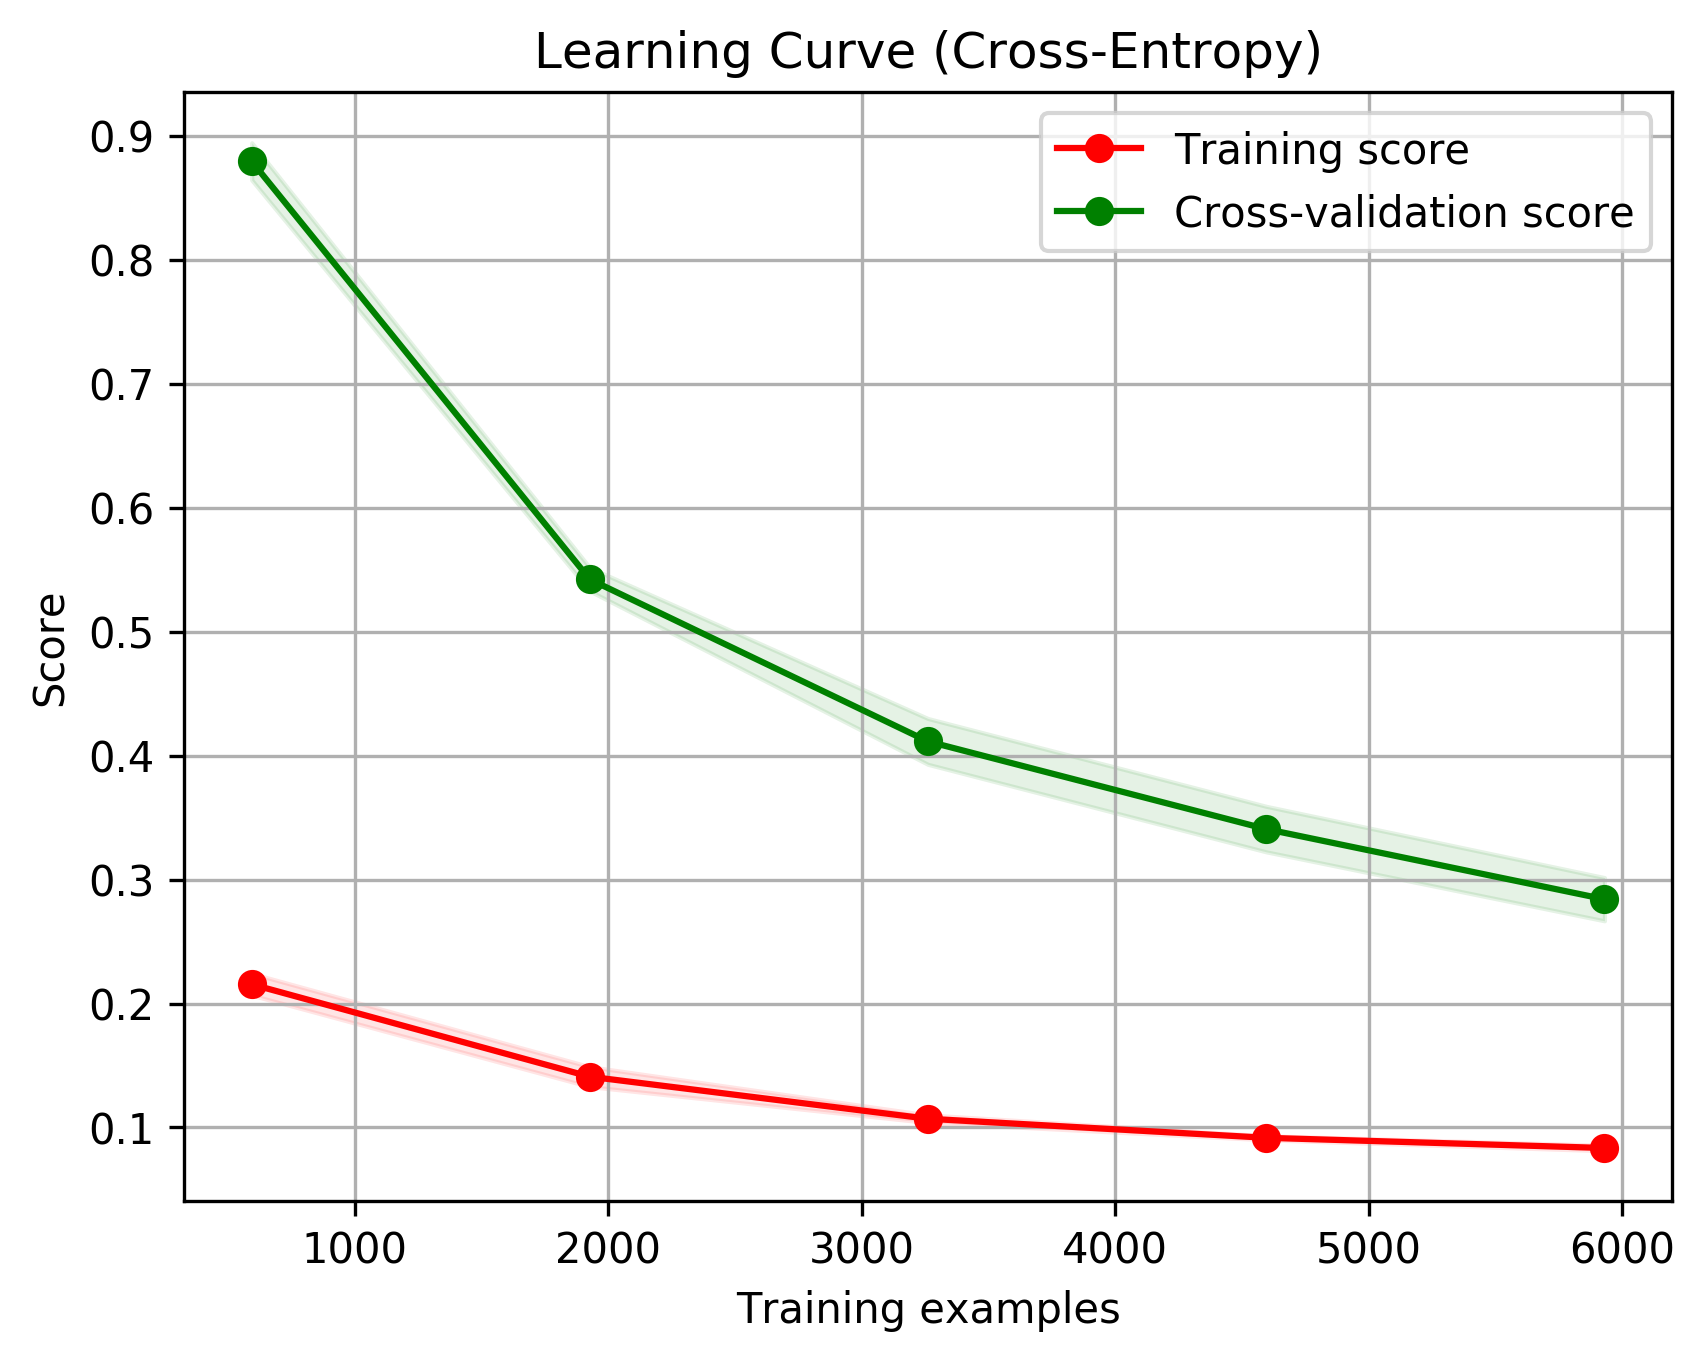
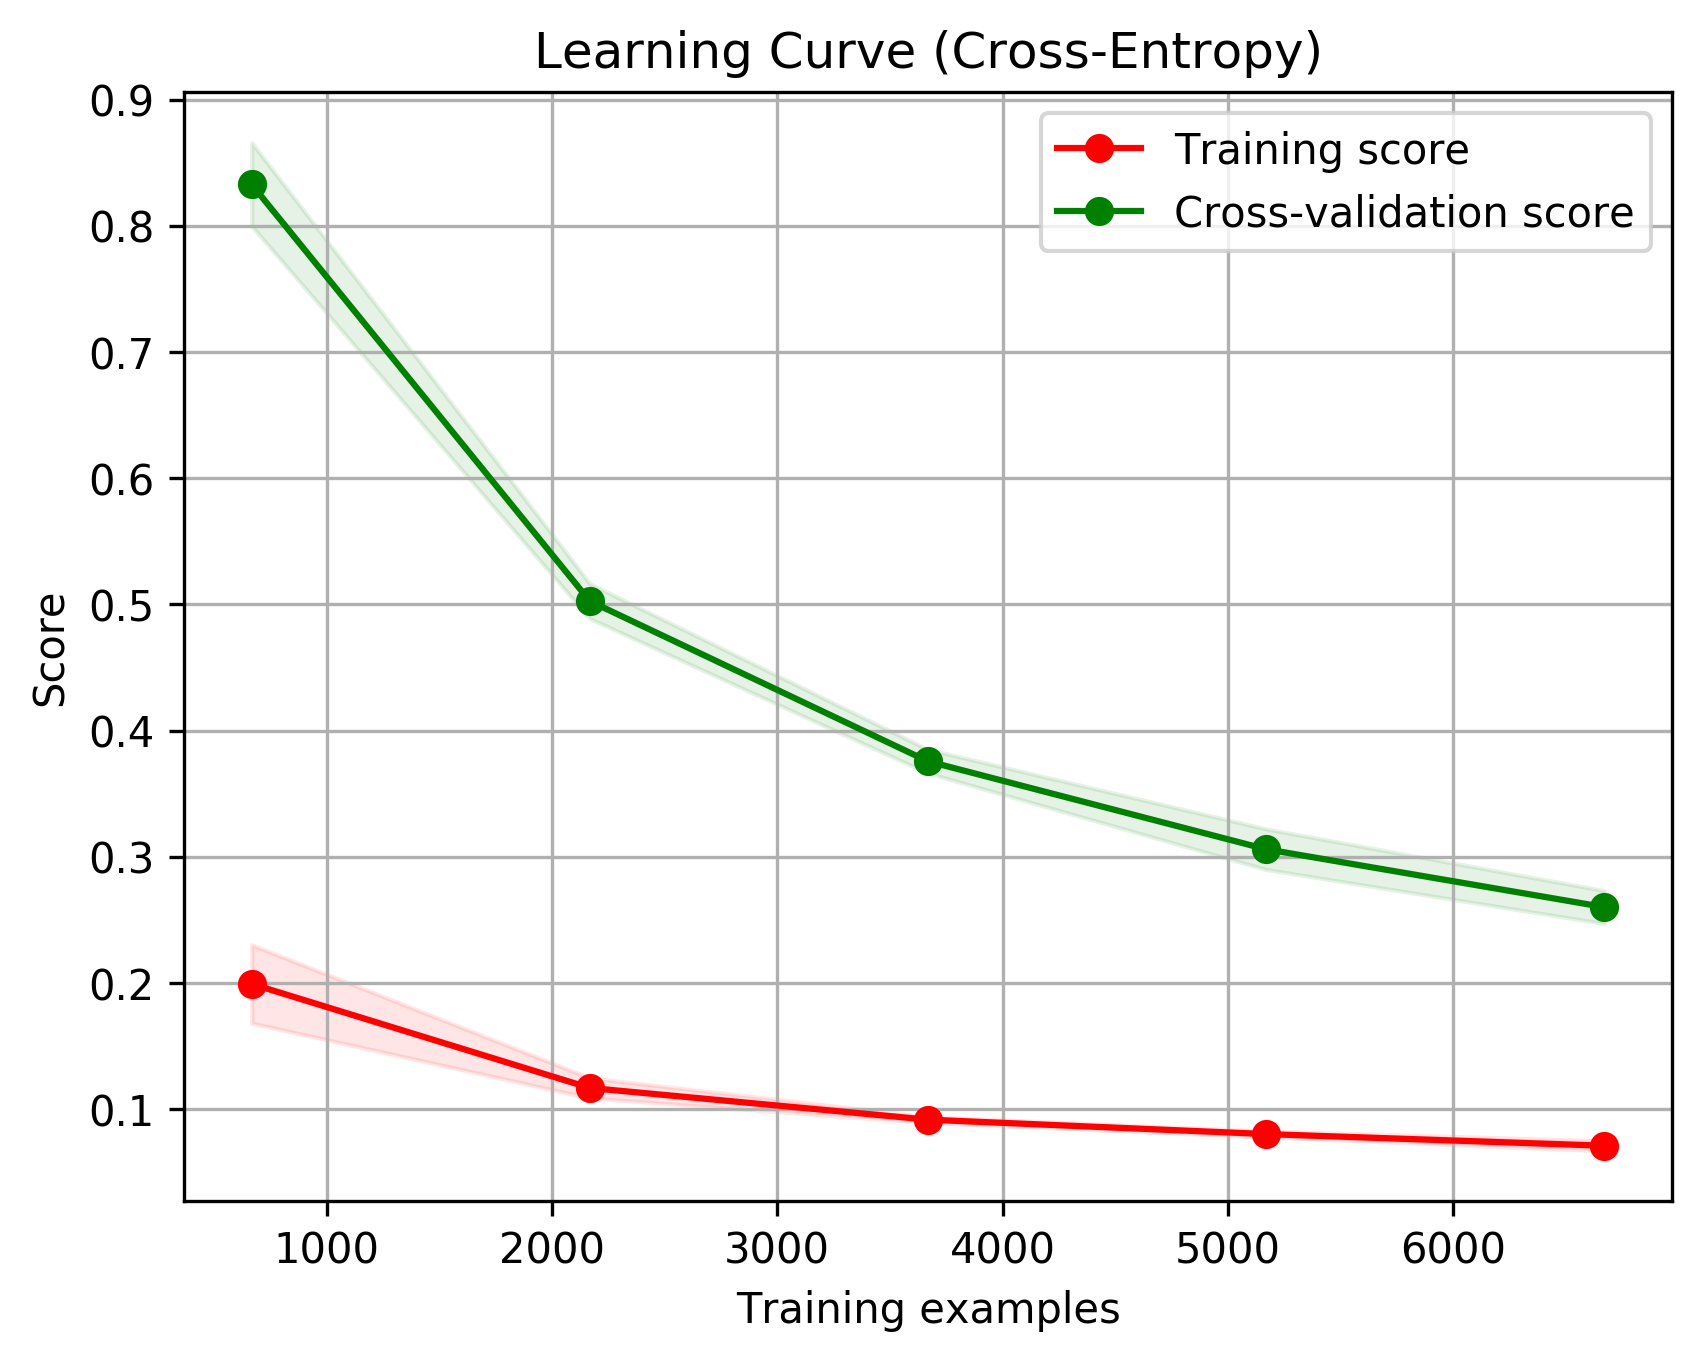
bug fix and svm rerun

diff --git a/main_LS.py b/main_LS.py
@@ -4,6 +4,7 @@ from models import svm
 from model_evaluation import scorer, visualiser
 from feature_reduction import feature_reducer
 from utils import pandaman
+import numpy as np
 
 if __name__ == '__main__':
 
@@ -13,9 +14,8 @@ if __name__ == '__main__':
     trainer = trainer.Trainer()
 
     estimator = svm.SVC(class_weight='balanced', C=100, kernel='rbf', gamma=0.0001)
-
-    train_features, train_activity_labels, train_subject_labels, test_features = trainer.load_data(
-        os.path.join("feature_extraction", '_data_sets/unreduced.pkl'), final=False)
+    train_features, train_activity_labels, train_subject_labels, train_session_id, test_features = trainer.load_data(
+        os.path.join("feature_extraction", '_data_sets','unreduced.pkl'), final=False)
 
     # pandaman.print_stats(train_features=train_features, train_activity_labels=train_activity_labels,
     #                      train_subject_labels=train_subject_labels, test_features=test_features)
@@ -32,10 +32,10 @@ if __name__ == '__main__':
       {'C': [1, 10, 100, 1000], 'gamma': [0.001, 0.0001], 'kernel': ['poly'], 'degree': [2, 3, 4]}, # coef0 is best left at 0 for lower degree polys
     #  {'C': [1, 10, 100, 1000], 'gamma': [0.001, 0.0001], 'kernel': ['sigmoid']} # paper suggesting to not use sigmoid kernel
     ]
-    #trainer.find_optimized_model(estimator, train_features, train_subject_labels, tuned_parameters, scorer.auc_evaluator)
+    #trainer.find_optimized_model(estimator, train_features, train_subject_labels, train_session_id, tuned_parameters, scorer.auc_evaluator)
 
-    #trainer.evaluate(estimator, train_features, train_subject_labels, scorer.auc_evaluator, results_location)
-    trainer.get_acc_auc(estimator, train_features, train_subject_labels, results_location)
-    #visualiser.plot_learning_curves(estimator, train_features, train_subject_labels, results_location)
+    print trainer.evaluate(estimator, train_features, train_subject_labels, train_session_id)
+    #visualiser.plot_confusion_matrix(estimator, np.array(train_features.values), train_subject_labels, train_session_id, results_location)
+    #visualiser.plot_learning_curves(estimator, train_features, train_subject_labels, train_session_id, results_location)
 
 

diff --git a/trainer.py b/trainer.py
@@ -33,7 +33,7 @@ class Trainer:
             print("Trainer initialised with LDA feature reduction")
             self.lda = True
         else:
-            print("Trainer initialised with LDA feature reduction")
+            print("Trainer initialised with NO LDA feature reduction")
             self.lda = False
             
 
@@ -92,12 +92,15 @@ class Trainer:
             X_train, X_test = train_features[train_index], train_features[test_index]
             y_train, y_test = train_labels[train_index], train_labels[test_index]
             if self.lda:
-                lda_reducer = feature_reducer.get_LDA_reducer(X_train, y_train, 7)
+                lda_reducer = feature_reducer.get_LDA_reducer(X_train, y_train, 20)
                 X_train = lda_reducer.transform(X_train)
                 X_test = lda_reducer.transform(X_test)
 
             if self.rebalancer:
+                print("Rebalancing fold: {}".format(num))
                 X_train_rebalanced, y_train_rebalanced = self.rebalancer.fit_sample(X_train, y_train)
+            else:
+                X_train_rebalanced, y_train_rebalanced = X_train, y_train
             estimator.fit(X_train_rebalanced, y_train_rebalanced)
             score = scorer(estimator, X_test, y_test)
             print("---- Intermediate score: {}".format(score))
